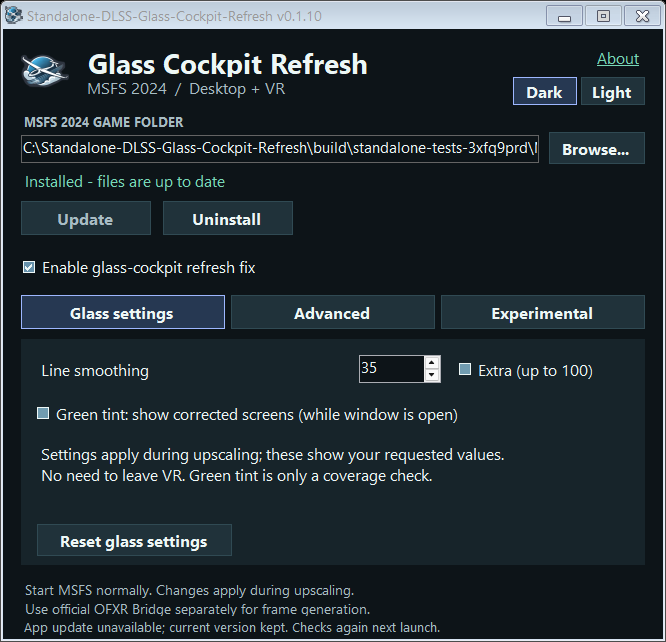
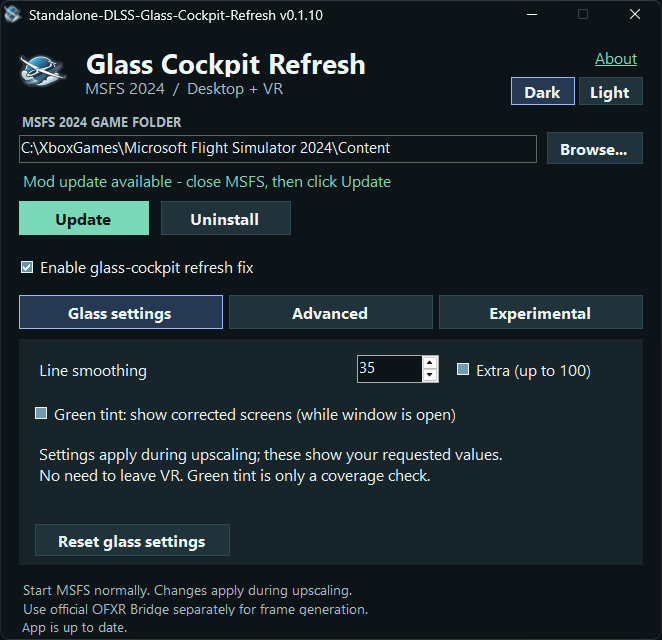
Document all telemetry choices and synchronize website assets

diff --git a/web/WSG-Stream-Feeder.html b/web/WSG-Stream-Feeder.html
@@ -6,17 +6,85 @@
   <meta name="theme-color" content="#0d1524"><title>WSG Stream Feeder · WeSimGlide</title>
   <link rel="stylesheet" href="tools.css"><script src="feeder.js" defer></script>
 </head>
-<body>
+<body class="feeder-page">
   <a class="skip" href="#main">Skip to content</a>
-  <header><div class="wrap topbar"><a class="brand" href="https://wesimglide.org/"><img src="assets/wsg-logo.png" alt="" width="58" height="46">WeSimGlide</a><nav class="nav" aria-label="Main"><a href="index.html">All tools</a><a href="#setup">Setup</a><a href="#help">Help</a><a href="#source">Source code</a></nav></div></header>
+  <header><div class="wrap topbar"><a class="brand" href="https://wesimglide.org/"><img src="assets/wsg-logo.png" alt="" width="58" height="46">WeSimGlide</a><nav class="nav" aria-label="Main"><a href="index.html">All tools</a><a href="#telemetry">Telemetry</a><a href="#setup">Setup</a><a href="#help">Help</a><a href="#source">Source code</a></nav></div></header>
   <main id="main" class="wrap">
     <section class="hero"><div><p class="eyebrow">MSFS 2024 · OBS streaming</p><p class="release" id="release-version">WSG Stream Feeder</p><h1>Your flight data.<br>On your stream.</h1><p class="lead">Choose the glider telemetry you want, export individual text files, or capture a compact graphical panel in OBS. Shared unit settings, aircraft reference gauges and automatic reconnect keep the display easy to manage.</p><a class="button" href="WSG-Stream-Feeder.zip" download>Download for Windows ↓</a><p class="download-meta">Windows x64 · <span id="release-size">ZIP package</span><br>Requires the .NET 8 Desktop Runtime (x64).<br><a href="#setup">Setup guide</a> · <a href="#verify">Verify your download</a></p></div><figure><img src="assets/wsg-stream-feeder.png" alt="WSG Stream Feeder v1.3.0 in dark mode displaying sample glider telemetry and gauges" width="1004" height="1060"><figcaption class="caption">WSG Stream Feeder v1.3.0 with sample telemetry. Choose your readings and units in Settings, then capture the panel in OBS.</figcaption></figure></section>
-    <section class="section" aria-labelledby="values-title"><h2 id="values-title">Choose your flight data.</h2><div class="metrics"><div class="metric"><strong>Altitude</strong><span>Geometric ASL · selectable units</span><code>altitude_asl.txt</code></div><div class="metric"><strong>True heading</strong><span>Whole degrees · °</span><code>heading_true.txt</code></div><div class="metric"><strong>Ground speed</strong><span>Selectable speed units</span><code>speed.txt</code></div><div class="metric"><strong>Vertical speed</strong><span>Selectable vertical units · ▴ / ▾</span><code>vspeed.txt</code></div></div><p class="small" style="margin-top:18px">These four files are enabled by default. Settings also offers AGL, ground elevation, IAS, TAS, wind, weight, flaps, MacCready, track and more. Choose File, Panel or both for each value, and arrange the panel rows. Updates once per second. Connects through Microsoft SimConnect, reconnects automatically, and keeps feeding OBS while minimized to the taskbar. No OBS plugin required.</p></section>
-    <section class="section" id="setup"><h2>From download to overlay.</h2><ol class="steps"><li><h3>Extract the full ZIP</h3><p>Choose a writable folder outside the simulator installation. Keep all the included files together, then open <code>WSG Stream Feeder.exe</code>.</p><p>Install Microsoft’s .NET 8 Desktop Runtime (x64) if Windows says it is missing.</p></li><li><h3>Choose files or a capture panel</h3><p>Use <strong>Open output folder</strong> in the feeder. In each OBS text source, enable <strong>Read from file</strong> and select its matching <code>.txt</code> file.</p><p>Or choose <strong>Open capture window</strong> and add it as an OBS Window Capture source. Its height fits the selected rows; resizing sideways widens the gauges. Keep the capture window restored when recording.</p></li><li><h3>Start your flight</h3><p>The feeder connects automatically. Before telemetry arrives, the files display <code>N/A</code>.</p><p>Use the normal window <strong>Minimize</strong> button to keep it out of the way. Restore it from the Windows taskbar.</p></li></ol></section>
+    <section class="section" id="outputs" aria-labelledby="outputs-title">
+      <p class="eyebrow">Your overlay, your choice</p>
+      <h2 id="outputs-title">Text files, a capture panel, or both.</h2>
+      <p class="lead">Choose from 20 telemetry channels. In Settings, select <strong>File</strong>, <strong>Panel</strong>, or both for each reading, then save. Move rows up or down to arrange the panel.</p>
+      <div class="output-options">
+        <article class="feature-card"><h3>Individual text files</h3><p>Build your own OBS layout. Each enabled channel writes its own file in the feeder’s <code>Output</code> folder. Add an OBS text source, enable <strong>Read from file</strong>, and choose the matching file.</p><p>Use OBS to set fonts, colors and positions, or use the files in your own processing workflow.</p></article>
+        <article class="feature-card"><h3>A ready-to-capture panel</h3><p>Use the compact labels, gauges, direction arrows and flap indicators in an OBS <strong>Window Capture</strong> source. Crop and scale the panel to fit your scene.</p><p><strong>Open capture window</strong> moves the panel out of the main window. Its height fits the selected rows; horizontal resizing widens the gauges and keeps values aligned at the right.</p></article>
+      </div>
+      <p class="small">The separate capture window leaves the main telemetry area blank. Keep the capture window restored while recording or streaming; you can minimize the main settings window.</p>
+    </section>
+    <section class="section" id="telemetry" aria-labelledby="values-title">
+      <h2 id="values-title">All 20 telemetry choices.</h2>
+      <p class="muted">Every channel below can feed a text file, the panel, or both. ASL, heading, ground speed and vertical speed are the default file selections—not a limit on what you can display.</p>
+      <div class="telemetry-table-wrap"><table class="telemetry-table">
+        <caption>Available readings, panel behavior and text filenames</caption>
+        <thead><tr><th scope="col">Reading</th><th scope="col">What it shows</th><th scope="col">Text file</th></tr></thead>
+        <tbody>
+            <tr><th scope="row"><span class="telemetry-label">ASL</span>Altitude above sea level</th><td>Geometric altitude above sea level.</td><td><code>altitude_asl.txt</code></td></tr>
+            <tr><th scope="row"><span class="telemetry-label">AGL</span>Height above ground</th><td>Height above the surface below, including obstacles reported by MSFS.</td><td><code>altitude_agl.txt</code></td></tr>
+            <tr><th scope="row"><span class="telemetry-label">ELEV</span>Ground elevation</th><td>Ground elevation reported directly by MSFS.</td><td><code>ground_altitude.txt</code></td></tr>
+            <tr><th scope="row"><span class="telemetry-label">HDG</span>True heading</th><td>Where the nose points; arrow and bearing relative to true north.</td><td><code>heading_true.txt</code></td></tr>
+            <tr><th scope="row"><span class="telemetry-label">TRK</span>Ground track</th><td>Direction of travel over the ground; arrow and true bearing.</td><td><code>track_true.txt</code></td></tr>
+            <tr><th scope="row"><span class="telemetry-label">GS</span>Ground speed</th><td>Speed over the ground, with a blue gauge.</td><td><code>speed.txt</code></td></tr>
+            <tr><th scope="row"><span class="telemetry-label">IAS</span>Indicated airspeed</th><td>Indicated airspeed, with a blue gauge.</td><td><code>airspeed_indicated.txt</code></td></tr>
+            <tr><th scope="row"><span class="telemetry-label">TAS</span>True airspeed</th><td>True airspeed, with a VNE gauge when aircraft reference data is available.</td><td><code>airspeed_true.txt</code></td></tr>
+            <tr><th scope="row"><span class="telemetry-label">V/SPD</span>Vertical speed</th><td>MSFS climb/descent reading, shown on a centered gauge.</td><td><code>vspeed.txt</code></td></tr>
+            <tr><th scope="row"><span class="telemetry-label">WIND</span>Wind speed</th><td>Horizontal wind speed; combined with direction in one panel row.</td><td><code>wind_speed.txt</code></td></tr>
+            <tr><th scope="row"><span class="telemetry-label">WIND</span>Wind direction</th><td>True bearing the wind comes from; the rotating arrow points downwind.</td><td><code>wind_direction.txt</code></td></tr>
+            <tr><th scope="row"><span class="telemetry-label">AIR ↑</span>Vertical air mass</th><td>Ambient vertical wind; this is not an instrument netto reading.</td><td><code>wind_vertical.txt</code></td></tr>
+            <tr><th scope="row"><span class="telemetry-label">WT</span>Total weight</th><td>Current total aircraft mass, with an MTOW gauge when available.</td><td><code>weight.txt</code></td></tr>
+            <tr><th scope="row"><span class="telemetry-label">FLAPS</span>Flap setting</th><td>Centered detent labels when known; raw simulator index otherwise. Hidden on the panel for known unflapped gliders.</td><td><code>flaps.txt</code></td></tr>
+            <tr><th scope="row"><span class="telemetry-label">MC</span>MacCready</th><td>Selected expected climb setting, shown as a blue gauge; aircraft support varies.</td><td><code>maccready.txt</code></td></tr>
+            <tr><th scope="row"><span class="telemetry-label">TEMP</span>Temperature</th><td>Ambient air temperature.</td><td><code>temperature.txt</code></td></tr>
+            <tr><th scope="row"><span class="telemetry-label">PRESS</span>Pressure</th><td>Ambient air pressure.</td><td><code>pressure.txt</code></td></tr>
+            <tr><th scope="row"><span class="telemetry-label">GEAR</span>Landing gear</th><td>Gear handle position: up or down.</td><td><code>gear.txt</code></td></tr>
+            <tr><th scope="row"><span class="telemetry-label">STATE</span>Flight state</th><td>On ground or airborne.</td><td><code>flight_state.txt</code></td></tr>
+            <tr><th scope="row"><span class="telemetry-label">SIM</span>Simulation rate</th><td>Simulator speed multiplier.</td><td><code>simulation_rate.txt</code></td></tr>
+        </tbody>
+      </table></div>
+      <p class="small">Selecting either wind channel shows one combined WIND row, such as an arrow beside <strong>90° @ 12 kt</strong>. The two wind text exports remain independently selectable. V/SPD reports vertical speed; TE/netto and individual ballast channels are not offered in this version.</p>
+    </section>
+    <section class="section" id="gauges" aria-labelledby="gauges-title">
+      <h2 id="gauges-title">Gauges made for glider telemetry.</h2>
+      <div class="gauge-grid">
+        <article class="feature-card"><h3>TAS and VNE</h3><p>The aircraft reference supplies the TAS VNE marker. The gauge’s amber band begins at 90% of VNE; the filled bar turns red above VNE.</p></article>
+        <article class="feature-card"><h3>Weight and flaps</h3><p>Total weight is compared with maximum takeoff weight (MTOW) when known. Flap labels are centered in their cells, with the active position highlighted.</p></article>
+        <article class="feature-card"><h3>AGL and V/SPD</h3><p>AGL uses a nonlinear height gauge. V/SPD uses a centered ±5 m/s scale, with green for climb and red for descent. Selected units apply to the readouts.</p></article>
+        <article class="feature-card"><h3>IAS, GS and MC</h3><p>Blue bars show display ranges, not operating limits. IAS shares TAS’s range when known (otherwise 0–300 km/h); GS uses 0–400 km/h and MC uses 0–5 m/s. Values beyond the range remain readable with overflow markers.</p></article>
+      </div>
+      <p class="notice">Unknown glider? Live telemetry still works. Missing aircraft metadata means no invented VNE or weight limits. Unavailable readings show <code>N/A</code>. The app looks up reference data once after identifying the aircraft; it does not repeatedly download it during a normal flight.</p>
+    </section>
+    <section class="section" id="units" aria-labelledby="units-title">
+      <h2 id="units-title">One set of units for both outputs.</h2>
+      <p class="muted">Settings controls the panel and text exports together. Choose units independently for each measurement group, and use <strong>Units in text files</strong> to include suffixes. Suffixes are off by default; bearings retain their degree symbol.</p>
+      <ul class="unit-list">
+        <li><strong>Altitude:</strong> ft or m</li><li><strong>Airspeed and ground speed:</strong> kt, km/h, mph or m/s</li>
+        <li><strong>Vertical rate and MC:</strong> ft/min, m/s or kt</li><li><strong>Wind speed:</strong> kt, km/h, mph or m/s</li>
+        <li><strong>Weight:</strong> kg or lb</li><li><strong>Temperature:</strong> °C or °F</li><li><strong>Pressure:</strong> hPa or inHg</li>
+      </ul>
+      <p class="muted">Adjust panel size to scale its text and graphics together. Dark/Light themes apply to both windows. Your saved selections, order, units and appearance are remembered.</p>
+    </section>
+    <section class="section" id="setup"><h2>From download to overlay.</h2>
+      <ol class="steps feeder-steps">
+        <li><h3>Extract the full ZIP</h3><p>Choose a writable folder. Keep all included files together and open <code>WSG Stream Feeder.exe</code>. Windows x64 and .NET 8 Desktop Runtime (x64) are required.</p></li>
+        <li><h3>Choose your readings</h3><p>Open <strong>Settings</strong>, choose File and/or Panel for the values you want, set units and order, then <strong>Save settings</strong>.</p><p>Use <strong>Preview with sample data</strong> to check the panel layout. Preview never writes fictional telemetry to text files.</p></li>
+        <li><h3>Connect OBS</h3><p>For text sources, use <strong>Open output folder</strong> and select each file in OBS. For graphical capture, use <strong>Open capture window</strong>, add a Window Capture source, and crop or scale it.</p></li>
+        <li><h3>Start your flight</h3><p>The feeder connects automatically and updates once per second. It reconnects if MSFS becomes unavailable; missing readings display <code>N/A</code>.</p><p>Text exports keep updating while minimized. Keep the separate capture window restored for OBS.</p></li>
+      </ol>
+    </section>
+    <section class="section" aria-labelledby="performance-title"><h2 id="performance-title">Built to stay out of the way.</h2><p class="muted">One simulator sample per second feeds all selected values. Text files are replaced only when their content changes; the panel redraws when its readings or appearance change. There is no continuous animation or browser runtime in the app. No OBS plugin is required.</p></section>
     <section class="section"><h2>Upgrading from 1.2?</h2><p class="notice">Point an old altitude text source at <code>altitude_asl.txt</code>. ASL is geometric altitude above sea level. The former ALT, GRND and CLIMB selections migrate to ASL, ELEV and V/SPD. ELEV uses <code>ground_altitude.txt</code>; <code>vspeed.txt</code> stays the same. Existing retired files become <code>N/A</code>.</p><p class="muted">Aircraft reference data supplies TAS VNE, maximum weight and flap labels when available. Unknown gliders still show live values. Sample preview affects only the graphical panel; text files always contain live readings or N/A.</p></section>
     <section class="section"><h2>Ready for the next session.</h2><p class="muted">Choose Dark or Light to match your desktop. Your choice is saved. Official releases check for updates on startup and verify the download before installing it.</p><p class="notice">While connected to MSFS, an update waits for you. Finish your stream, then choose <strong>Restart to update</strong> or close and reopen the feeder. Your OBS files and settings are preserved.</p></section>
     <section class="section" id="source" aria-labelledby="source-title"><h2 id="source-title">See how the feeder works.</h2><p class="muted">The source is available on GitHub, including the SimConnect reader, OBS text-file writer, interface, and update verification. The repository includes build instructions, compatibility tests, and a description of the app’s security behavior.</p><p class="muted">You can inspect the code and build your own version. The original code is licensed under <strong>PolyForm Noncommercial 1.0.0</strong>, allowing noncommercial use, modification, and sharing under its terms. Commercial use is not permitted. Microsoft components and supplied branding retain their separate terms.</p><p><a class="button secondary" href="https://github.com/siglr/WSGStreamFeeder">View source on GitHub ↗</a></p><p class="small">Public source makes the application easier to inspect; it does not certify antivirus clearance. Development builds disable official automatic updates and are not claimed to be byte-for-byte identical to the official download. For normal installation, use the complete release ZIP.</p></section>
-    <section class="section" id="help"><h2>A few useful details.</h2><details><summary>Is the speed indicated airspeed?</summary><p><code>speed.txt</code> is ground speed. IAS and TAS have their own selectable exports and gauges. Units are configurable. ASL is geometric altitude above sea level; heading is true, not magnetic.</p></details><details><summary>Do I need an OBS plugin?</summary><p>No. For individual text sources, enable <strong>Read from file</strong>, and select the matching files in the feeder’s Output folder.</p></details><details><summary>Where are my settings?</summary><p>Output defaults to an <code>Output</code> subfolder beside the EXE. For another location, copy <code>settings.example.json</code> to <code>settings.json</code> and edit <code>OutputDirectory</code>. Relative paths are resolved beside the application. Update the OBS file sources to match.</p></details><details><summary>What happens if I close the feeder?</summary><p>Exit stops telemetry and writes <code>N/A</code> to enabled files. Minimizing to the taskbar keeps it running. If MSFS closes, the feeder waits for it to return.</p></details><details><summary>Windows or antivirus warns about the download</summary><p>The application does not currently carry an Authenticode publisher certificate. Its signed updates verify release authenticity, but they do not provide Windows publisher reputation. Keep protection enabled, check the exact detection and release hash, and contact WeSimGlide if the file is flagged.</p></details></section>
+    <section class="section" id="help"><h2>A few useful details.</h2><details><summary>What happens when I deselect a file?</summary><p>An existing file for that telemetry is set to <code>N/A</code> so OBS cannot keep displaying a stale number. A file that was never enabled is not created. Unrelated files are left alone.</p></details><details><summary>Is the speed indicated airspeed?</summary><p><code>speed.txt</code> is ground speed. IAS and TAS have their own selectable exports and gauges. Units are configurable. ASL is geometric altitude above sea level; heading is true, not magnetic.</p></details><details><summary>Do I need an OBS plugin?</summary><p>No. For individual text sources, enable <strong>Read from file</strong>, and select the matching files in the feeder’s Output folder.</p></details><details><summary>Where are my settings?</summary><p>Telemetry selections, order and units are saved from the <strong>Settings</strong> tab. Output defaults to an <code>Output</code> subfolder beside the EXE. For another location, copy <code>settings.example.json</code> to <code>settings.json</code> and edit <code>OutputDirectory</code>. Relative paths are resolved beside the application. Update the OBS file sources to match.</p></details><details><summary>What happens if I close the feeder?</summary><p>Exit stops telemetry and writes <code>N/A</code> to enabled files. Minimizing the main window keeps telemetry and text files running. Closing the main app also closes the capture window; closing only the capture window returns the panel to the main window. If MSFS closes, the feeder waits for it to return.</p></details><details><summary>Windows or antivirus warns about the download</summary><p>The application does not currently carry an Authenticode publisher certificate. Its signed updates verify release authenticity, but they do not provide Windows publisher reputation. Keep protection enabled, check the exact detection and release hash, and contact WeSimGlide if the file is flagged.</p></details></section>
     <section class="section" id="verify"><h2>Verify your download.</h2><div class="hash-box"><p class="small">SHA-256 of the published ZIP, read from the release metadata:</p><code id="release-hash">Release information is loading…</code><button class="button secondary" id="copy-hash" type="button" disabled>Copy SHA-256</button><p class="small" id="copy-status" aria-live="polite"></p></div><p class="small" style="margin-top:16px">A matching hash identifies the published ZIP; it is not a guarantee of antivirus clearance. The application separately verifies signed release metadata and the package’s file inventory.</p><p><a href="WSG-Stream-Feeder.version.json">View release metadata</a></p></section>
   </main>
   <footer><div class="wrap footer-inner"><p>WSG Stream Feeder · Built for the WeSimGlide community.</p><a href="index.html">Explore all tools →</a></div></footer>

diff --git a/web/tools.css b/web/tools.css
@@ -1,1 +1,15 @@
 :root{color-scheme:dark;--bg:#0d1524;--panel:#121d31;--raised:#19273d;--text:#f4f8ff;--muted:#bed0ec;--line:#30435e;--blue:#82afff;--mint:#a6e4cc}*{box-sizing:border-box}body{margin:0;background:var(--bg);color:var(--text);font:16px/1.65 "Segoe UI",Arial,sans-serif}a{color:var(--blue);text-underline-offset:4px}a:hover{color:#b5d0ff}a:focus-visible,button:focus-visible,summary:focus-visible{outline:3px solid var(--mint);outline-offset:5px}button{font:inherit;cursor:pointer}.wrap{max-width:1160px;margin:auto;padding:0 30px}.skip{position:absolute;top:-80px;left:16px;padding:10px;background:var(--blue);color:var(--bg);z-index:5}.skip:focus{top:10px}header{border-bottom:1px solid var(--line)}.topbar{min-height:96px;display:flex;align-items:center;justify-content:space-between;gap:24px}.brand{display:flex;align-items:center;gap:14px;color:var(--text);font-size:21px;font-weight:700;letter-spacing:-.04em;text-decoration:none}.brand img{width:58px;height:46px;object-fit:contain}.nav{display:flex;gap:24px;font-size:14px}.nav a{text-decoration:none;color:var(--muted)}.intro{padding:64px 0 40px;max-width:850px}.eyebrow{text-transform:uppercase;letter-spacing:.16em;font-size:12px;font-weight:700;color:var(--mint);margin:0 0 16px}h1{font-size:clamp(36px,5vw,58px);line-height:1.1;letter-spacing:-.045em;margin:0 0 24px}h2{font-size:28px;line-height:1.2;letter-spacing:-.025em;margin:0 0 16px}h3{font-size:19px;margin:0 0 12px}p{margin:0 0 18px}.lead{font-size:18px;color:var(--muted);max-width:720px}.muted,.caption{color:var(--muted)}.tool-grid{display:grid;grid-template-columns:1fr 1fr;gap:26px;padding-bottom:60px}.tool{border:1px solid var(--line);border-radius:16px;overflow:hidden;background:var(--panel);display:flex;flex-direction:column}.tool-image{background:#0a111d;padding:22px;display:flex;align-items:center;justify-content:center;aspect-ratio:1.32}.tool-image img{width:100%;height:100%;max-height:350px;object-fit:contain;filter:drop-shadow(0 14px 20px #0005)}.tool-copy{padding:28px;display:flex;flex-direction:column;flex:1}.tool-copy h2{font-size:27px}.tool-copy p{color:var(--muted)}.tool-copy .button{align-self:flex-start;margin-top:auto}.tag{display:inline-block;font-size:11px;font-weight:700;color:var(--mint);letter-spacing:.09em;text-transform:uppercase;margin-bottom:14px}.button{display:inline-flex;align-items:center;justify-content:center;gap:8px;background:var(--blue);border:1px solid var(--blue);border-radius:8px;padding:12px 20px;color:#0a1525;font-size:15px;font-weight:700;text-decoration:none}.button:hover{background:#a2c4ff;color:#0a1525}.button.secondary{background:transparent;color:var(--text);border-color:var(--line)}.button.secondary:hover{background:var(--raised)}.hero{display:grid;grid-template-columns:1fr 1.2fr;gap:42px;align-items:center;padding:62px 0 48px}.hero h1{font-size:clamp(36px,4.7vw,58px)}.hero .lead{font-size:17px}.hero figure{margin:0;min-width:0}.hero img{display:block;width:100%;height:auto;border-radius:10px;box-shadow:0 20px 45px #0006}.caption{font-size:12px;margin:12px 0 0}.release{font-size:13px;color:var(--mint);margin-bottom:18px}.download-meta{font-size:12px;margin-top:14px;color:var(--muted)}.section{padding:42px 0;border-top:1px solid var(--line)}.metrics{display:grid;grid-template-columns:repeat(4,1fr);gap:16px}.metric{background:var(--panel);border:1px solid var(--line);border-radius:10px;padding:20px}.metric strong{display:block;color:var(--text);font-size:17px}.metric span{display:block;color:var(--muted);font-size:13px;margin:4px 0}.metric code{color:var(--mint);font-size:12px}.steps{display:grid;grid-template-columns:repeat(3,1fr);gap:22px;list-style:none;padding:0;counter-reset:step}.steps li{padding:24px;border:1px solid var(--line);border-radius:12px;background:var(--panel);counter-increment:step}.steps li:before{content:"0" counter(step);display:block;color:var(--blue);font-weight:700;margin-bottom:14px}.steps p{font-size:14px;color:var(--muted)}code{font-family:Consolas,monospace;font-size:.9em;overflow-wrap:anywhere}details{border-bottom:1px solid var(--line)}summary{cursor:pointer;padding:20px 0;font-weight:600}details p{color:var(--muted);max-width:880px;padding:0 0 10px}.hash-box{padding:22px;background:var(--panel);border:1px solid var(--line);border-radius:10px}.hash-box code{display:block;margin:12px 0 18px;overflow-wrap:anywhere}.small{font-size:13px;color:var(--muted)}footer{border-top:1px solid var(--line);padding:28px 0;margin-top:20px;color:var(--muted);font-size:13px}.footer-inner{display:flex;justify-content:space-between;gap:24px}.footer-inner p{margin:0}.notice{border-left:3px solid var(--mint);padding-left:18px;color:var(--muted)}@media(max-width:850px){.hero{grid-template-columns:1fr;gap:30px}.hero figure{max-width:720px}.metrics{grid-template-columns:repeat(2,1fr)}.tool-image{padding:12px}.tool-copy{padding:22px}.steps{gap:14px}.steps li{padding:18px}}@media(max-width:620px){.wrap{padding:0 20px}.topbar{min-height:84px;gap:12px;flex-wrap:wrap;padding:12px 20px}.brand{font-size:19px}.brand img{width:44px;height:36px}.nav{gap:16px;font-size:12px}.intro{padding:42px 0 26px}.tool-grid,.steps{grid-template-columns:1fr}.tool-image{aspect-ratio:auto;padding:20px;min-height:220px}.tool-image img{max-height:330px}.hero{padding-top:40px}.footer-inner{display:block}.footer-inner a{display:inline-block;margin-top:12px}.metric{padding:14px}.metrics{gap:10px}.metric strong{font-size:15px}h2{font-size:25px}}
+
+/* WSG Stream Feeder: selectable telemetry and output guide. */
+.feeder-page .output-options,.feeder-page .gauge-grid{display:grid;grid-template-columns:repeat(2,minmax(0,1fr));gap:20px;margin:24px 0}
+.feeder-page .feature-card{padding:24px;background:var(--panel);border:1px solid var(--line);border-radius:12px;min-width:0}
+.feeder-page .feature-card p{font-size:15px;color:var(--muted)}.feeder-page .feature-card p:last-child{margin-bottom:0}
+.feeder-page .telemetry-table{width:100%;border-collapse:collapse;table-layout:fixed;margin:24px 0 18px;font-size:14px}
+.feeder-page .telemetry-table caption{text-align:left;color:var(--muted);font-size:13px;padding-bottom:12px}
+.feeder-page .telemetry-table th,.feeder-page .telemetry-table td{text-align:left;vertical-align:top;padding:15px 16px;border-bottom:1px solid var(--line);overflow-wrap:anywhere}
+.feeder-page .telemetry-table thead{background:var(--raised)}.feeder-page .telemetry-table th:first-child{width:28%}.feeder-page .telemetry-table th:last-child{width:27%}
+.feeder-page .telemetry-table tbody tr:nth-child(even){background:var(--panel)}.feeder-page .telemetry-table td{color:var(--muted)}
+.feeder-page .telemetry-table code{color:var(--mint)}.feeder-page .telemetry-label{display:block;color:var(--blue);font-size:12px;letter-spacing:.04em;margin-bottom:4px}
+.feeder-page .unit-list{display:grid;grid-template-columns:repeat(2,minmax(0,1fr));gap:12px 28px;padding-left:20px;color:var(--muted);margin:24px 0}
+.feeder-page .unit-list strong{color:var(--text)}.feeder-page .feeder-steps{grid-template-columns:repeat(2,minmax(0,1fr))}
+@media(max-width:620px){.feeder-page .output-options,.feeder-page .gauge-grid,.feeder-page .unit-list,.feeder-page .feeder-steps{grid-template-columns:1fr}.feeder-page .feature-card{padding:20px}.feeder-page .telemetry-table{font-size:12px}.feeder-page .telemetry-table th,.feeder-page .telemetry-table td{padding:12px 7px}.feeder-page .telemetry-table th:first-child{width:27%}.feeder-page .telemetry-table th:last-child{width:34%}.feeder-page .nav{flex-wrap:wrap}}

diff --git a/web/index.html b/web/index.html
@@ -12,7 +12,7 @@
   <main id="main" class="wrap">
     <section class="intro"><p class="eyebrow">Tools for your next flight</p><h1>Your cockpit.<br>Your stream.</h1><p class="lead">Two focused tools for MSFS 2024. Bring more clarity to your instruments, or bring your flight data into OBS.</p></section>
     <div class="tool-grid">
-      <article class="tool"><a class="tool-image" href="Standalone-DLSS-Glass-Cockpit-Refresh.html" aria-label="Explore Glass Cockpit Refresh"><img src="assets/glass-cockpit-refresh.png" alt="Glass Cockpit Refresh control window with installation status and line-smoothing settings" width="666" height="642"></a><div class="tool-copy"><span class="tag">MSFS 2024 · Desktop + VR</span><h2>Glass Cockpit Refresh</h2><p>The standalone package for IFreemz’s glass-cockpit refresh fix, with its ReShade components included. Help reduce instrument ghosting with DLSS or FSR upscaling.</p><a class="button" href="Standalone-DLSS-Glass-Cockpit-Refresh.html">Details &amp; download →</a></div></article>
+      <article class="tool"><a class="tool-image" href="Standalone-DLSS-Glass-Cockpit-Refresh.html" aria-label="Explore Glass Cockpit Refresh"><img src="assets/glass-cockpit-refresh.png" alt="Glass Cockpit Refresh control window with installation status and line-smoothing settings" width="662" height="640"></a><div class="tool-copy"><span class="tag">MSFS 2024 · Desktop + VR</span><h2>Glass Cockpit Refresh</h2><p>The standalone package for IFreemz’s glass-cockpit refresh fix, with its ReShade components included. Help reduce instrument ghosting with DLSS or FSR upscaling.</p><a class="button" href="Standalone-DLSS-Glass-Cockpit-Refresh.html">Details &amp; download →</a></div></article>
       <article class="tool"><a class="tool-image" href="WSG-Stream-Feeder.html" aria-label="Explore WSG Stream Feeder"><img src="assets/wsg-stream-feeder.png" alt="WSG Stream Feeder v1.3.0 showing sample glider telemetry, gauges and direction arrows" width="1004" height="1060"></a><div class="tool-copy"><span class="tag">MSFS 2024 · OBS streaming</span><h2>WSG Stream Feeder</h2><p>Select glider telemetry for OBS text files or a compact capture panel. Configure units and gauges, with aircraft reference limits, automatic reconnect and Dark/Light themes.</p><a class="button" href="WSG-Stream-Feeder.html">Details &amp; download →</a></div></article>
     </div>
     <p class="small">Windows x64. Each tool has its own setup instructions and requirements. Screenshots show the applications’ control windows. The feeder displays clearly labeled sample telemetry.</p>
